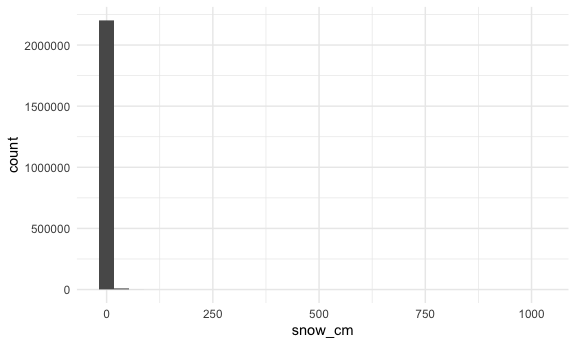
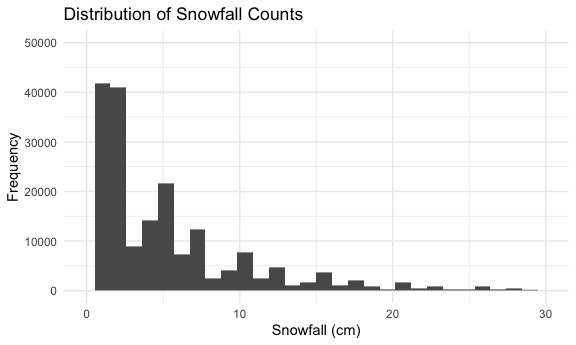
#3 complete

diff --git a/p8105_hw3_enp2116.md b/p8105_hw3_enp2116.md
@@ -3,10 +3,6 @@ p8105_hw3_enp2116
 Emily Potts
 2022-10-06
 
-\*\* This homework includes figures; the readability of your embedded
-plots (e.g. font sizes, axis labels, titles) will be assessed in
-Problems 1+ \*\*
-
 # Problem 1
 
 Loading the instacart dataset from p8105.datasets:
@@ -157,9 +153,9 @@ spreadsheet, variables activity.\* are the activity counts for each
 minute of a 24-hour day starting at midnight.
 
 -   Loading, tidying, and otherwise wrangling the data; including all
-    originally observed variables and values; have useful variable
-    names; include a weekday vs weekend variable; and encode data with
-    reasonable variable classes.
+    originally observed variables and values; having useful variable
+    names; including a weekday vs weekend variable; and encoding data
+    with reasonable variable classes.
 
 ``` r
 accel_data =
@@ -230,11 +226,12 @@ machine’s default (NULL) is a 1 for each minute.
     this graph.
 
 ``` r
-ggplot(accel_data, aes(x = minute, y = activity_count)) +
+accel_data %>% 
+ggplot(aes(x = minute, y = activity_count)) +
   geom_line(aes(color = day), alpha = .4) +
   labs(
     title = "Daily Activity by Minute",
-    x = "Minute",
+    x = "Minutes from Midnight",
     y = "Activity Count"
     )  + scale_x_discrete(breaks = NULL)
 ```
@@ -242,22 +239,14 @@ ggplot(accel_data, aes(x = minute, y = activity_count)) +
 <img src="p8105_hw3_enp2116_files/figure-gfm/unnamed-chunk-10-1.png" width="90%" />
 
 Based on this graph, we can see that the distribution of activity
-throughout the day tends to be bimodal, with a lull before noon. On
-weekends, we see a larger nighttime peak and on weekdays we see a larger
-morning peak.
+throughout the day tends to have a consistent lull before noon. On
+Sundays, we see this as a larger nighttime peak and on weekdays we see a
+larger morning peak. Despite this, activity counts per minute usually
+hover around 1225, with more active time periods mostly under 2500.
 
 # Problem 3
 
 Loading the NY NOAA dataset from p8105.datasets:
-
-``` r
-data("ny_noaa")
-
-noaa_df = 
-  ny_noaa %>% 
-  as_tibble(ny_noaa)
-noaa_df
-```
 
     ## # A tibble: 2,595,176 × 7
     ##    id          date        prcp  snow  snwd tmax  tmin 
@@ -307,7 +296,8 @@ month, and day. I then converted the temperature variables to numeric
 and created new variables with my suggested units for the five variables
 of interest. Based on the documentation on the p8105 website for the
 NOAA dataset, I intended to have the variables of prcp, snow, and snwd
-in measures of cm and temperature data in terms of degrees C.
+in measures of cm and temperature data in terms of degrees C, which I
+feel is more interpretable by a general audience.
 
 ``` r
 noaa_tidy = 
@@ -326,12 +316,13 @@ noaa_tidy =
     mutate(month = recode(month, "1" = "jan", "2" = "feb", "3" = "mar", "4" = "apr", "5" = "may", "6" = "jun", "7" = "jul", "8" = "aug", "9" = "sep", "10" = "oct", "11" = "nov", "12" = "dec"))
 ```
 
-For snowfall, what are the most commonly observed values? Why?
-
 For snowfall, the most commonly observed values are 0, with this value
 making up about 77.4% of the data. This is most likely the case because
 snow itself is a rare event, even in a cold climate that keeps snow on
-the ground.
+the ground (meaning positive values for the snow depth variable).
+Additionally, a histogram of the snowfall shows the high right-skew
+distribution of the data (lots of low values), which may explain why the
+units were originally chosen to be small.
 
 ``` r
 noaa_tidy %>% 
@@ -345,12 +336,19 @@ noaa_tidy %>%
 
 ``` r
 noaa_tidy %>% 
-  ggplot(aes(snow_cm)) + geom_histogram()
+  ggplot(aes(snow_cm)) + geom_histogram() + xlim(0, 30) + ylim(0, 50000) +
+  labs(
+    title = "Distribution of Snowfall Counts",
+    x = "Snowfall (cm)",
+    y = "Frequency"
+    )
 ```
 
     ## `stat_bin()` using `bins = 30`. Pick better value with `binwidth`.
 
-    ## Warning: Removed 381221 rows containing non-finite values (stat_bin).
+    ## Warning: Removed 383707 rows containing non-finite values (stat_bin).
+
+    ## Warning: Removed 2 rows containing missing values (geom_bar).
 
 <img src="p8105_hw3_enp2116_files/figure-gfm/unnamed-chunk-15-1.png" width="90%" />
 
@@ -366,7 +364,11 @@ noaa_tidy %>%
   ) %>%
   filter(month == "jan" | month == "jul") %>%
   ggplot(aes(x = year, y = mean_tmax, color = id)) + 
-  geom_line() +   theme(legend.position="none") + labs(x = "Years", y = "Average Max Temperature (degrees C)") + facet_grid(~ month)
+  geom_line() +   
+  theme(legend.position="none") + 
+  labs(x = "Years", y = "Average Max Temperature (degrees C)", title = "Average Max Temperature by Month and Year") + 
+  facet_grid(~ month) + 
+  theme(panel.spacing.x = unit(6, "mm"))
 ```
 
     ## `summarise()` has grouped output by 'id', 'month'. You can override using the
@@ -388,28 +390,28 @@ when comparing within the same months.
     a plot showing the distribution of snowfall values greater than 0
     and less than 100 separately by year.
 
--   You should make a single plot for part (i) and a single plot for
-    part (ii). Then, you should combine these two plots side by side
-    into a single-panel exhibit; you can find a refresher on how to do
-    that hereLinks to an external site.. For the first plot, you are
-    correct that “vs” implies tmax should be on the vertical axis and
-    that tmin should be on the horizontal axis.
+``` r
+tmax_vs_tmin = 
+  noaa_tidy %>% 
+  ggplot(aes(x = tmin_C, y = tmax_C)) + 
+  geom_hex(alpha = .5) +
+  theme(legend.position = "none") + 
+  labs(x = "Minimum Temperature (degrees C)", y = "Maximum Temperature (degrees C)")
 
--   As for the final plot, you should filter values based on the
-    original definition of snowfall (i.e., using the original units). To
-    that end, you might want to consider retaining both the original
-    variable snow as well as your proposal for a variable with a more
-    sensical unit. As long as you’re clear about how you label values
-    and units in your visualizations, you should be good!
+snow_dist = 
+  noaa_tidy %>% 
+  mutate(year = as.factor(year)) %>% 
+  group_by(year) %>% 
+  filter(0 < snow & snow < 100) %>% 
+  ggplot(aes(x = snow, color = year)) + 
+  geom_density(alpha = .5) + 
+  theme(legend.position = "none")  + 
+  labs(x = "Snowfall (mm)", y = "Density")
 
--   filter the data to only include rows such that 0 \< snow \< 100.
 
--   Then for each year of the data, create distribution plots of snow.
-    So, for example, if the dataset spanned the years 1997 to 1999, you
-    would have three separate distribution plots of (the filtered
-    observations of) snow by year.
+(tmax_vs_tmin + snow_dist)
+```
 
--   patchwork, geom_hex
+    ## Warning: Removed 1136276 rows containing non-finite values (stat_binhex).
 
--   We want to limit the values of snowfall to the criteria specified
-    and then use ggplot to plot the distribution (density plot).
+<img src="p8105_hw3_enp2116_files/figure-gfm/unnamed-chunk-17-1.png" width="90%" />
